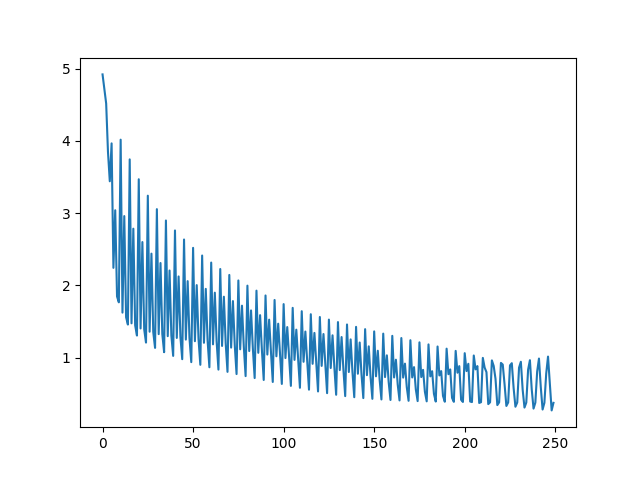
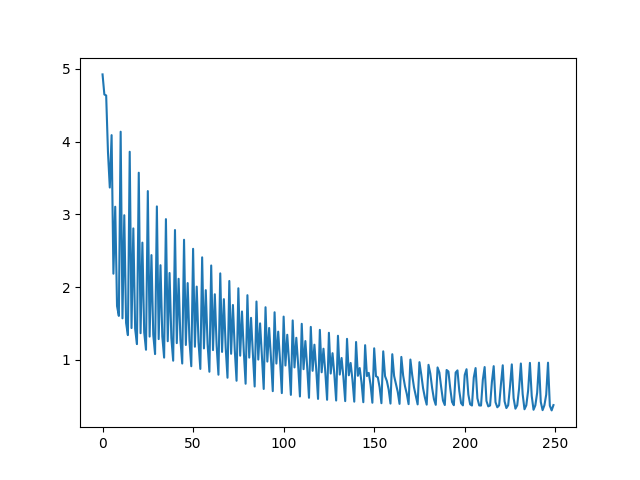
remove gradient clipping

diff --git a/seq2seq.py b/seq2seq.py
@@ -137,8 +137,8 @@ def train_model(encoder, decoder, sentences, word_to_idx, idx_to_word):
                 decoder_input = idxes_label[di].view(1, 1)
             loss.backward()
             # gradient clipping, make max gradinent have norm 1.
-            clip_grad_norm_(encoder.parameters(), 1)
-            clip_grad_norm_(decoder.parameters(), 1)
+            # clip_grad_norm_(encoder.parameters(), 1)
+            # clip_grad_norm_(decoder.parameters(), 1)
             encoder_optimizer.step()
             decoder_optimizer.step()
             if k % 20 == 0:
@@ -147,7 +147,7 @@ def train_model(encoder, decoder, sentences, word_to_idx, idx_to_word):
     logger.info(f'Took {time.time()-now} seconds to train')
     plt.plot(range(len(losses)), losses)
     # plt.show()
-    plt.savefig('foo.png')
+    plt.savefig('foo2.png')
     # import pdb; pdb.set_trace()
 
 
